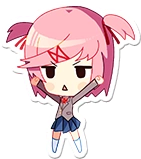
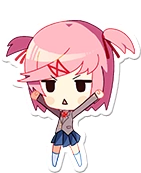
theme: put every sticker on one canvas
The PNGs were each trimmed to their own content, so the sprites only lined up
when a consumer scaled them by height — scaling by width made Natsuki 21%
shorter than Yuri, because her twintails make her image wider and shorter.
All twelve now share a 141x173 canvas, bottom-aligned: feet line up, relative
sizes are preserved, and either axis gives the same result

diff --git a/theme/components/CharacterSprite.qml b/theme/components/CharacterSprite.qml
@@ -3,7 +3,9 @@ import QtQuick
 // A single character: drifts left and right inside its band [xMin, xMax], hops
 // on hover and switches to the excited sticker.
 // In easter-egg mode (frozen) the drift stops: Monika slides to the centre and
-// everyone else fades out (gone)
+// everyone else fades out (gone).
+// Every sticker shares one 141x173 canvas, bottom-aligned: the characters keep their relative
+// sizes, their feet line up, and nobody shrinks when a consumer scales by width instead
 Item {
     id: sprite
 
